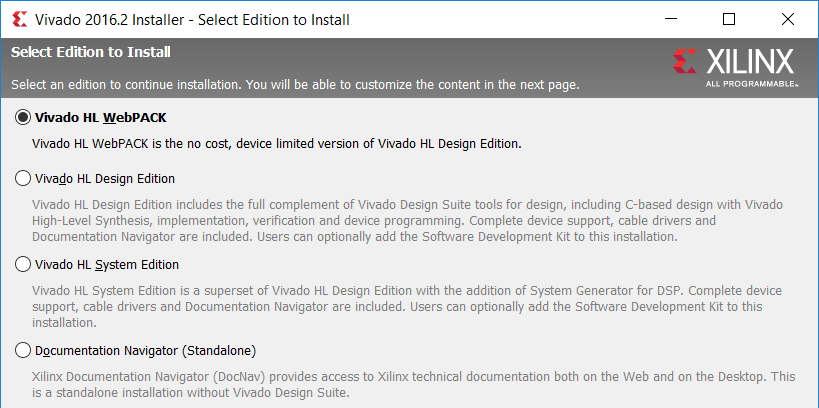
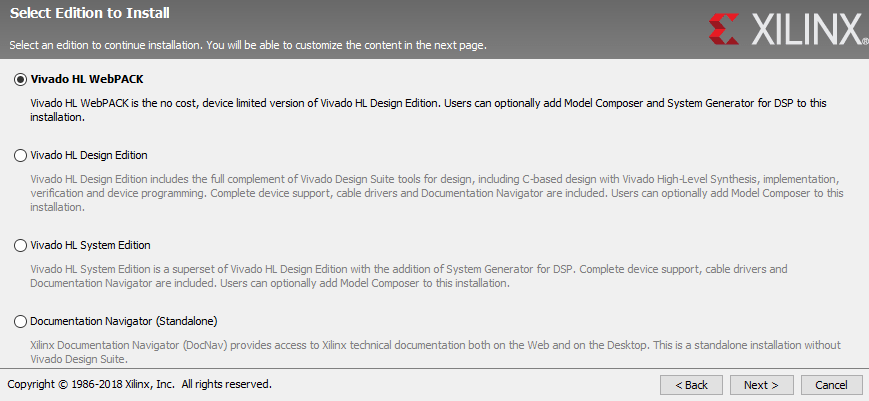
Updated and improved layout of installation section

diff --git a/vivado_tutorial/tex/installation.tex b/vivado_tutorial/tex/installation.tex
@@ -19,19 +19,16 @@ Run Xilinx\_Vivado\_SDK\_Web\_2018.2\_0614\_1954\_Win64.exe to start the install
 On the welcome screen you can hit next, and then on the next screen type in your username and
 password for the account you just created and hit next.
 
-\vspace{2mm}\noindent
-\includegraphics[width=\textwidth]{login_page}
-%\begin{figure}[!htbp]
-%  \centering
-%  \includegraphics[width=\textwidth]{login_page}
-%  \label{fig:login_page}
-%\end{figure}
+\begin{figure}[!h]
+    \includegraphics[width=\textwidth]{login_page}
+\end{figure}
 
 On the next screen accept all the license agreements and hit next.
 Then select Vivado HL WebPACK and hit next.
 
-\vspace{2mm}\noindent
-\includegraphics[width=\textwidth]{edition_page}
+\begin{figure}[!h]
+    \includegraphics[width=\textwidth]{edition_page}
+\end{figure}
 
 On the next screen you can select which parts of the software to install.
 The defaults are fine, but if you’d like to save some space you can uncheck the SoC and UltraScale
@@ -41,12 +38,15 @@ Keep in mind that it will take over 10 GB of space on your hard drive.
 Press next, review that everything is correct on this last screen, and then press install.
 Enter your Xilinx account username and password again if a popup prompts you.
 
-\vspace{2mm}\noindent
-\includegraphics[width=\textwidth]{selection_page}
+\begin{figure}[!h]
+    \includegraphics[width=\textwidth]{selection_page}
+\end{figure}
 
+\begin{figure}[!h]
 \begin{mdframed}[style=note]
     If after installing Vivado refuses to start and gives an error about the Microsoft Visual
     C++ 2012 Redistributable, try uninstalling all versions of the Microsoft Visual C++ 2012
     Redistributable, restart your computer, and try launching Vivado again.
     This seems to happen when a newer version than it expects is already installed on the system.
 \end{mdframed}
+\end{figure}
